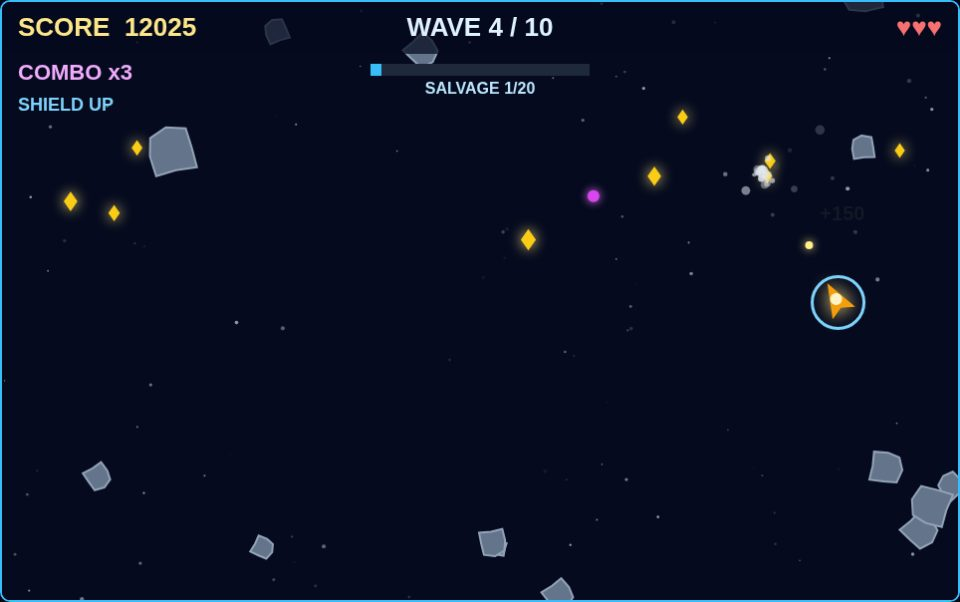
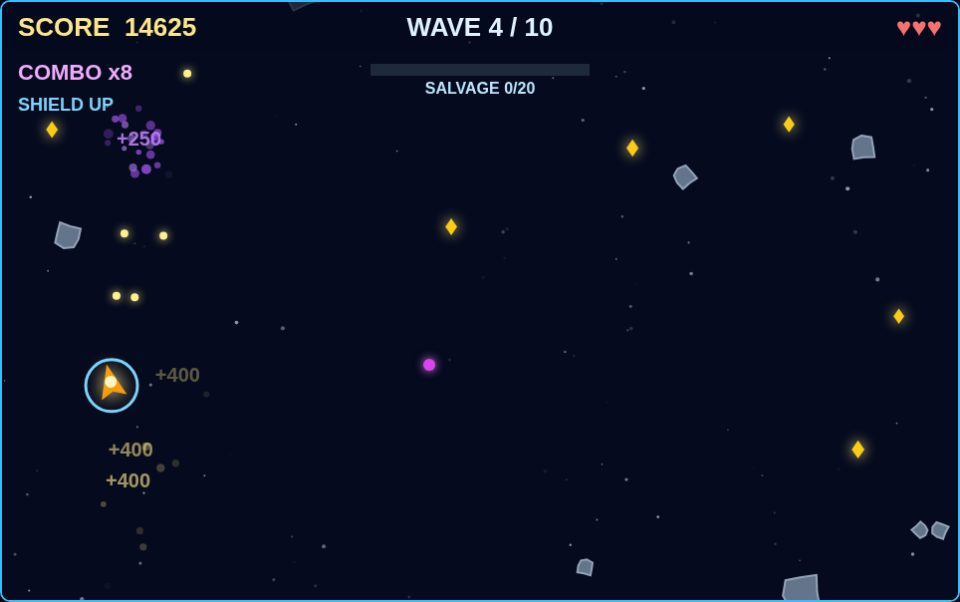
Fix HUD overlap and ship hidden behind HUD bar
- Remove BEST from play HUD top bar (it overlapped WAVE text)
- Hide ship on title screen (it overlapped the start prompt)
- Clamp ship below the 52px HUD bar; spawn shards/foes below it too
- Hide the transient wave banner in the play screenshot scene
- Add data: favicon to stop the 404

diff --git a/game/src/world.js b/game/src/world.js
@@ -41,13 +41,13 @@ export function createWorld(random) {
     state.asteroids.push(a);
   }
   function spawnDrifter() {
-    state.drifters.push({ x: random.pick([0, FIELD.width]), y: random.range(40, FIELD.height - 40), hp: DRIFTER.hp, r: DRIFTER.radius, vx: 0, vy: 0 });
+    state.drifters.push({ x: random.pick([0, FIELD.width]), y: random.range(70, FIELD.height - 40), hp: DRIFTER.hp, r: DRIFTER.radius, vx: 0, vy: 0 });
   }
   function spawnSpitter() {
-    state.spitters.push({ x: random.range(80, FIELD.width - 80), y: random.range(40, 140), hp: SPITTER.hp, r: SPITTER.radius, fireTimer: random.range(1, 2), vx: random.pick([-40, 40]) });
+    state.spitters.push({ x: random.range(80, FIELD.width - 80), y: random.range(70, 160), hp: SPITTER.hp, r: SPITTER.radius, fireTimer: random.range(1, 2), vx: random.pick([-40, 40]) });
   }
   function spawnShard(x, y) {
-    state.shards.push({ x: x ?? random.range(40, FIELD.width - 40), y: y ?? random.range(40, FIELD.height - 40), r: SHARD.radius, pulse: random.range(0, 6.28) });
+    state.shards.push({ x: x ?? random.range(40, FIELD.width - 40), y: y ?? random.range(70, FIELD.height - 40), r: SHARD.radius, pulse: random.range(0, 6.28) });
   }
   function burst(x, y, color, n) {
     for (let i = 0; i < n; i += 1) {
@@ -150,9 +150,10 @@ export function createWorld(random) {
       spawnShard();
     }
 
-    // Player movement + aim.
+    // Player movement + aim. The HUD bar covers the top 52 px, so the ship
+    // stays below it and is never hidden behind the score display.
     p.x = Math.min(FIELD.width - p.radius, Math.max(p.radius, p.x + move.x * state.speed * dt));
-    p.y = Math.min(FIELD.height - p.radius, Math.max(p.radius, p.y + move.y * state.speed * dt));
+    p.y = Math.min(FIELD.height - p.radius, Math.max(56, p.y + move.y * state.speed * dt));
     if (aim) p.angle = Math.atan2(aim.y - p.y, aim.x - p.x);
 
     // Fire bolts.
